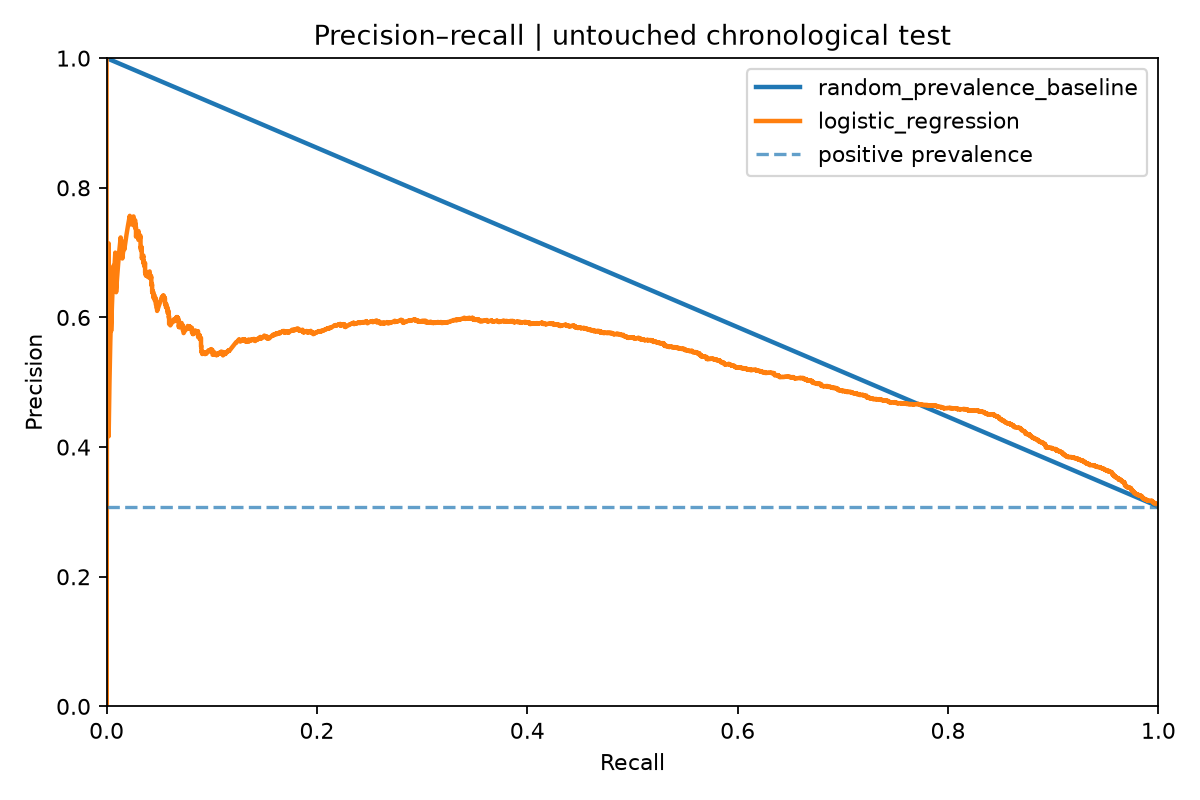
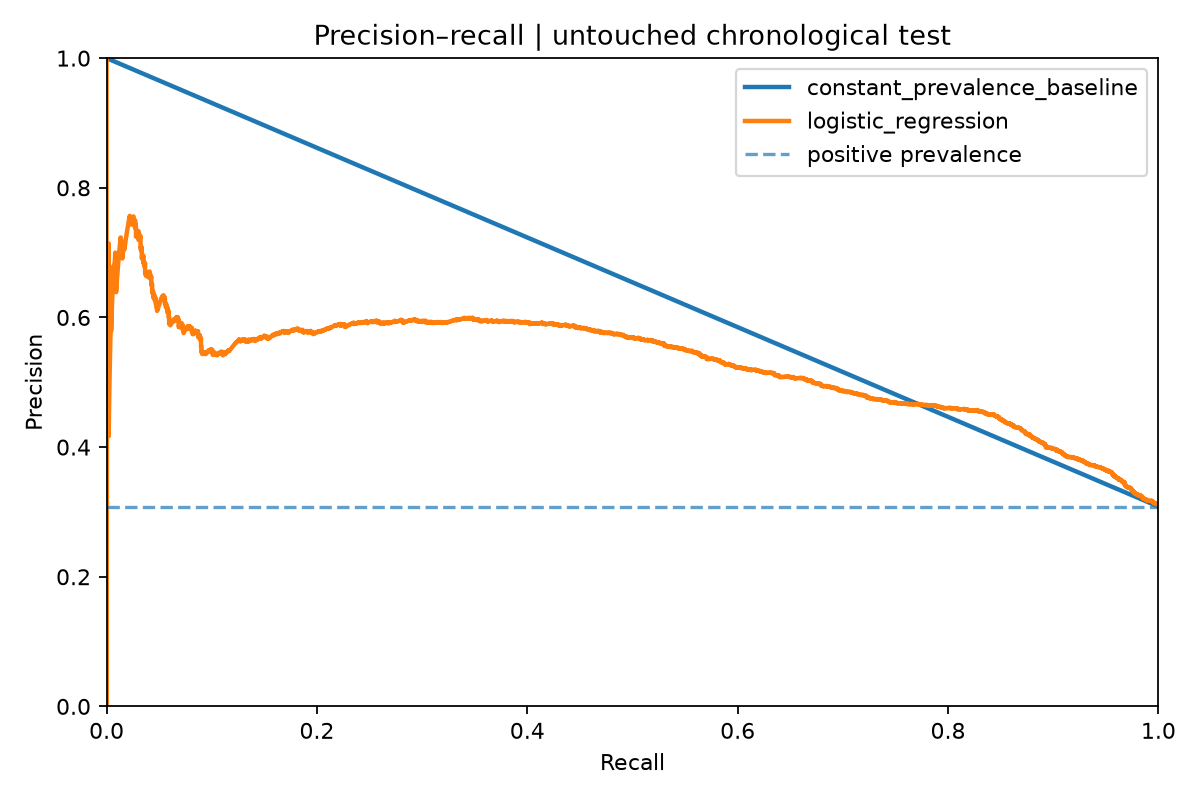
Publish original-data ML evaluation and diagnostic plots

Changed region(s): [[0.6167, 0.0938, 0.8633, 0.2188]]

diff --git a/reports/published/RESULTS.md b/reports/published/RESULTS.md
@@ -23,8 +23,10 @@
 
 | Model | Average precision | ROC AUC | Brier score | Precision @ capacity | Lift @ capacity |
 |---|---:|---:|---:|---:|---:|
-| random_prevalence_baseline | 0.308 | 0.500 | 0.273 | 8.0% | 0.26x |
+| constant_prevalence_baseline | 0.308 | 0.500 | 0.273 | n/a | n/a |
 | logistic_regression | 0.529 | 0.749 | 0.191 | 59.4% | 1.93x |
+
+**Baseline note:** a constant prior score cannot rank records; top-capacity precision and lift are not defined for this baseline.
 
 ## Campaign simulation
 
